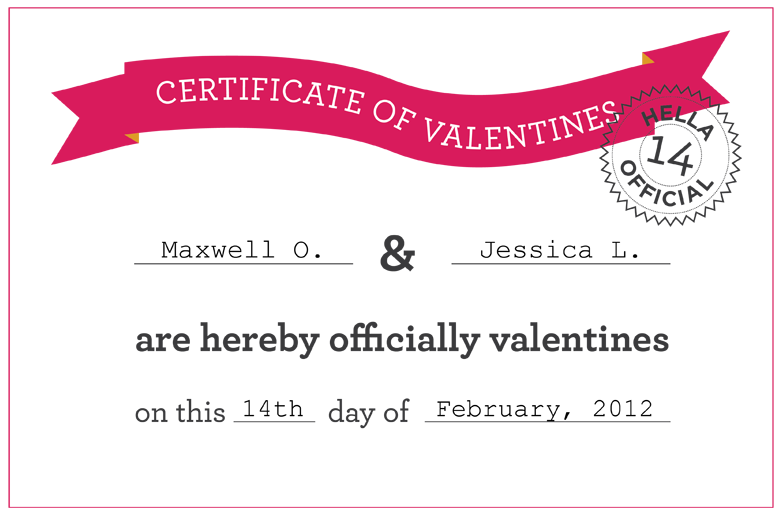
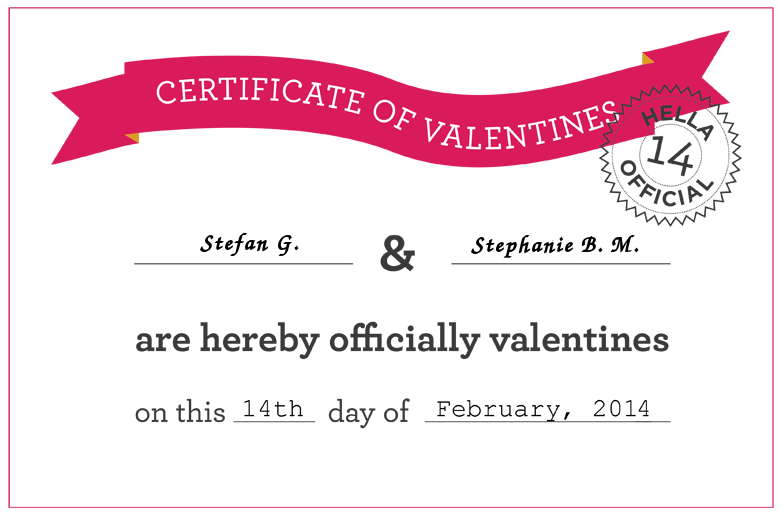
add languages german, french and Stefans adaptation

Changed region(s): [[0.5846, 0.4642, 0.8308, 0.4952], [0.1846, 0.4642, 0.4, 0.4952], [0.8, 0.7737, 0.8308, 0.8046]]

diff --git a/index.html b/index.html
@@ -3,15 +3,43 @@
   <meta charset="utf-8">
   <meta http-equiv="X-UA-Compatible" content="IE=edge,chrome=1">
   <script src="http://code.jquery.com/jquery-1.7.1.min.js" type="text/javascript"></script>  
-  <title>Happy Valentine's Day Max!</title>
+  <title>Happy Valentine's Day Stephanie!</title>
 <link rel="icon" type="image/jpg" href="favicon.jpg">
 <style>
-/* HELLO MAX! THIS IS MY CSS! */
+.black_overlay {
+    display: none;
+    position: absolute;
+    top: 0%;
+    left: 0%;
+    width: 100%;
+    height: 100%;
+    background-color: black;
+    z-index:1001;
+    -moz-opacity: 0.8;
+    opacity:.80;
+    filter: alpha(opacity=80);
+}
+.white_content {
+    display: none;
+    position: absolute;
+    text-align: center;
+    top: 25%;
+    left: 25%;
+    width: 50%;
+    height: 30%;
+    padding: 36px;
+    border: 16px solid orange;
+    background-color: white;
+    z-index:1002;
+    overflow: auto;
+}
+
+/* HELLO THIS IS THE ALERT CSS! */
 body {
 	background-image: url('tandem_grey.png');
 }
 body::before {
-	content: url('tandem_grey.png') url('broken.png') url('clock.png') url('colors.png')  url('theCertificate.png') url('thePerks.png');
+	content: url('tandem_grey.png') url('broken.png') url('clock.png') url('colors.png')  url('theCertificate.png') url('thePerks.png') url('favicon.jpg');
 	display: none;
 }
 .certificate {
@@ -23,6 +51,10 @@ body::before {
 	background: #fff;
 	background-image: url('thePerks.png');
 	box-shadow: 0 0 5px #888;
+}
+
+.valentine {
+  background-image: url('favicon.jpg');
 }
 .no {
 	background-image: url('broken.png');
@@ -48,35 +80,118 @@ body::before {
 	var beardedBoo = function() {
 		var body = $('body'),
 		    image = $("#image");
-		body.removeClass("no").removeClass("maybe")
-		image.removeClass("benefits").removeClass("certificate")
-		var answer = prompt("Will you be my valentine? Yes, No, Maybe?").toLowerCase()
+		body.removeClass("no").removeClass("maybe").removeClass("valentine");
+		image.removeClass("benefits").removeClass("certificate");
+		var dialog = null;
+		switch(lang)
+    {
+      case 'deutsch':
+        dialog = "Magst Du mein Valentine sein? Ja, Nein, Vielleicht?";
+      break;
+      case 'französisch':
+        dialog = "Aurait-tu être mon Valentin? Oui, Non, Peut-être?";
+      break;
+      default:
+        dialog = "Will you be my valentine? Yes, No, Maybe?";
+    }
+    var answer = prompt(dialog)
+    if (answer == null) {
+      //setTimeout(beardedBoo, 100);
+      document.location.reload(true);
+      return false;
+    }
+    answer = answer.toLowerCase()
 /* .toLowerCase IS BEST PRACTICE! IT'S ALSO OK IF YOU TYPE THE FIRST LETTER INSTEAD OF THE WORD! */
-		if (answer == "yes" || answer == 'y') {
+		if (answer == "yes" || answer == 'y' || answer == "ja" || answer == 'j' || answer == "oui" || answer == 'o') {
 			body.addClass("yes")
 			image.addClass("certificate")
-		} else if (answer == "maybe" || answer == 'm') {
+		} else if (answer == "maybe" || answer == 'm' || answer == "vielleicht" || answer == 'v' || answer == "peut-être" || answer == 'p') {
 			body.addClass("maybe")
 /* I WANTED THE BG TO CHANGE BEFORE THE ALERT AND THE IMAGE AFTER THE PROMPT AND THE NEXT PROMPT AFTER THAT! I LEARNED THAT IF ALERT AD IMAGE ARE NOT IN THE setTimeout TOGETHER, IT DOES THEM AT THE SAME TIME. */
-			setTimeout(beardedBoo, 6000)
-			setTimeout(function() {
-				alert("Perhaps you are not aware of the many benefits")
+			switch(lang)
+			{
+        case 'deutsch':
+          dialog = "Vielleicht sind Dir die vielen Vorteile nicht bewusst.";
+        break;
+        case 'französisch':
+          dialog = "Peut-être tu n'êtes pas au courant des nombreux avantages.";
+        break;
+        default:
+          dialog = "Perhaps you are not aware of the many benefits.";
+      }
+			/*setTimeout(function() {
+				alert(dialog)
 				image.addClass("benefits")
 			}, 200)
+			*/
+			if(confirm(dialog)) {
+  			image.addClass("benefits")
+        setTimeout(beardedBoo, 4000);
+      } else {
+        document.location.reload(true);
+      }	
+      
 /* HEY!!! */
-		} else {
+		} else if (answer == "no" || answer == 'n' || answer == "nein" || answer == 'non') {
 			body.addClass("no")
-			setTimeout(function() {
-				alert("Say it isn't so. Please try again.")
+			switch(lang)
+			{
+        case 'deutsch':
+          dialog = "Sag, daß es nicht so ist. Bitte versuche es erneut!";
+        break;
+        case 'französisch':
+          dialog = "Disons que c'est pas le cas. S'il te plaît essayez de nouveau!";
+        break;
+        default:
+          dialog = "Say it isn't so. Please try again!";
+      }
+			/*setTimeout(function() {
+				alert(dialog)
 				beardedBoo()
-			}, 200)
+			}, 200)*/
+			//alert(dialog);
+			if(confirm(dialog)) {
+        setTimeout(beardedBoo, 300);
+      } else {
+        document.location.reload(true);
+      }
+		} else {
+		  setTimeout(beardedBoo, 2500);
 		}
 	}
-    setTimeout(beardedBoo, 300)
+/*    setTimeout(beardedBoo, 300)*/
+    
+    function start() {
+      document.getElementById('light').style.display='block';
+      document.getElementById('fade').style.display='block';
+      $('body').addClass('valentine');
+    } 
+    setTimeout(start, 300)
+    
+    var lang = ""
+    function selectLang(sprache) {
+      document.getElementById('light').style.display='none';
+      document.getElementById('fade').style.display='none';   
+      lang = sprache
+      setTimeout(beardedBoo, 100)
+    }
 /* ALL THESE ALERTS/PROMPTS COULD GET ANNOYING, IT'S BEST TO JUST BE MY VALENTINE */
 	</script>
 
-<div id="image"></div>
- 
+  <div id="image"></div>
+
+  <p>This is the main content. To display a lightbox click 
+    <a href = "javascript:void(0)" onclick = "document.getElementById('light').style.display='block';document.getElementById('fade').style.display='block'">here</a>
+  </p>
+
+  <div id="light" class="white_content">Auf welche Sprache möchtest Du antworten?
+    <br> 
+    <a href = "javascript:selectLang('englisch')">englisch</a>
+    <a href = "javascript:selectLang('deutsch')">deutsch</a>
+    <a href = "javascript:selectLang('französisch')">französisch</a>
+  </div>
+
+  <div id="fade" class="black_overlay"></div> 
+
 </body>
 </html>
